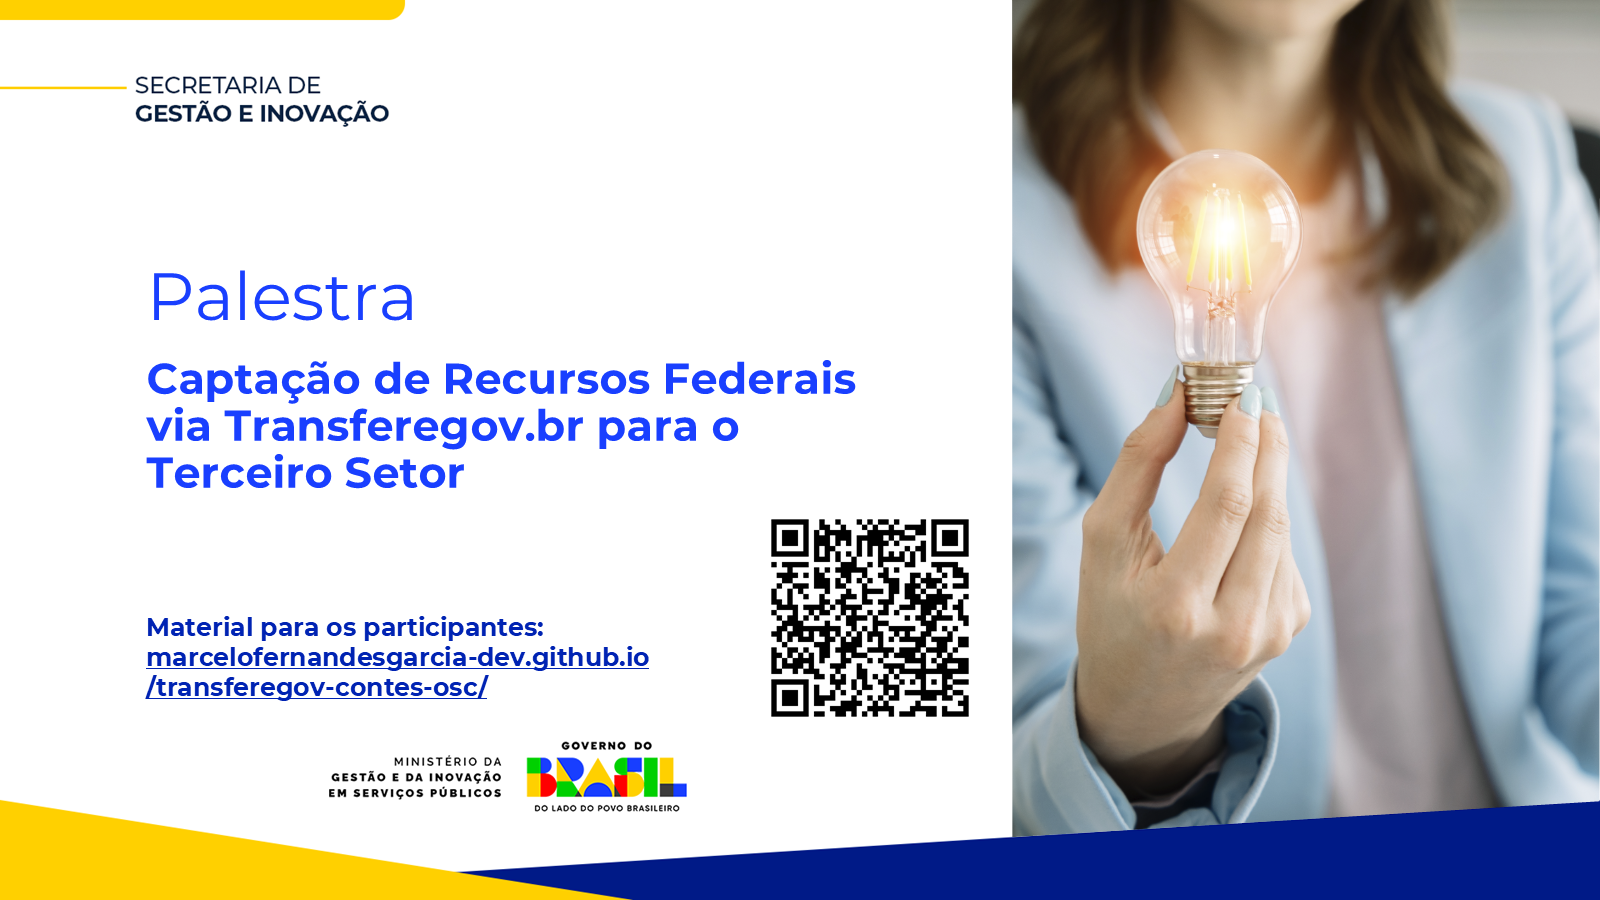
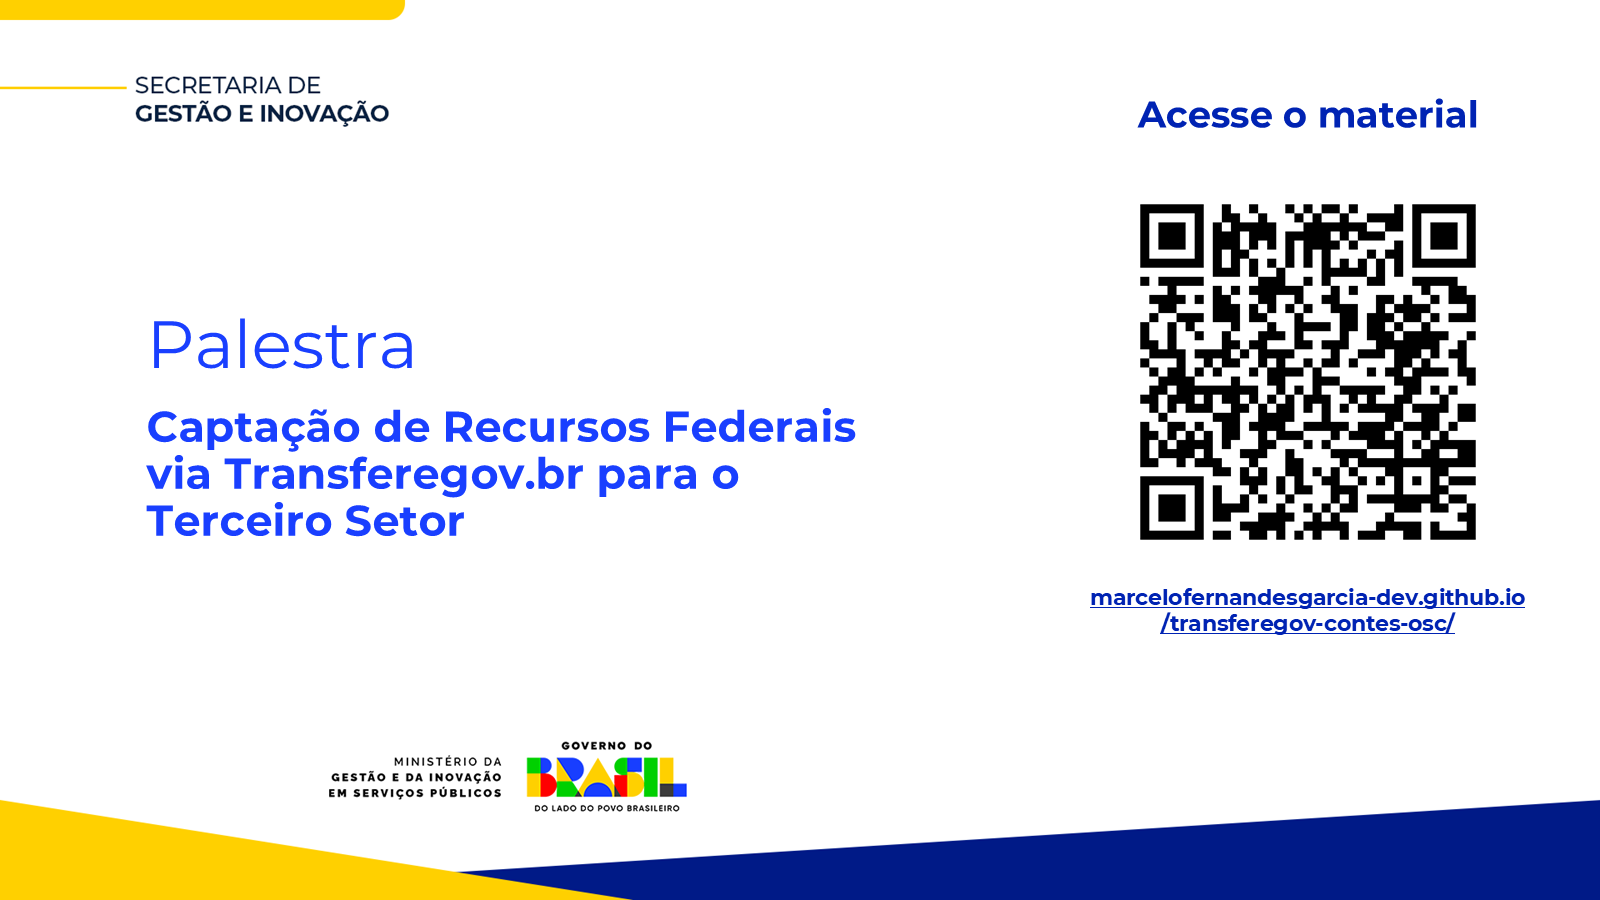
Atualiza as capas: sem foto, com QR code ampliado
Montado da fonte 7afbfcd. Os slides 4 da palestra e 8 do painel mudam só
por diferença de renderização.

diff --git a/docs/slides-painel.html b/docs/slides-painel.html
@@ -41,7 +41,8 @@
           <summary>Texto e links do slide 1</summary>
           <p>Painel</p>
 <p>Transferegov.br e as OSCs: Desafios, Exigências e Estratégias para Acesso a Recursos</p>
-<p>Material para os participantes:<br><a href="https://marcelofernandesgarcia-dev.github.io/transferegov-contes-osc/" target="_blank" rel="noopener">marcelofernandesgarcia-dev.github.io/transferegov-contes-osc/<span class="sr-only"> (abre em nova aba)</span><svg class="icone" aria-hidden="true"><use href="#i-externo"/></svg></a></p>
+<p>Acesse o material</p>
+<p><a href="https://marcelofernandesgarcia-dev.github.io/transferegov-contes-osc/" target="_blank" rel="noopener">marcelofernandesgarcia-dev.github.io/transferegov-contes-osc/<span class="sr-only"> (abre em nova aba)</span><svg class="icone" aria-hidden="true"><use href="#i-externo"/></svg></a></p>
 <p>QR code que leva ao site do material para os participantes (o mesmo endereço do link acima).</p>
         </details>
       </li>

diff --git a/docs/slides-palestra.html b/docs/slides-palestra.html
@@ -41,7 +41,8 @@
           <summary>Texto e links do slide 1</summary>
           <p>Palestra</p>
 <p>Captação de Recursos Federais via Transferegov.br para o Terceiro Setor</p>
-<p>Material para os participantes:<br><a href="https://marcelofernandesgarcia-dev.github.io/transferegov-contes-osc/" target="_blank" rel="noopener">marcelofernandesgarcia-dev.github.io/transferegov-contes-osc/<span class="sr-only"> (abre em nova aba)</span><svg class="icone" aria-hidden="true"><use href="#i-externo"/></svg></a></p>
+<p>Acesse o material</p>
+<p><a href="https://marcelofernandesgarcia-dev.github.io/transferegov-contes-osc/" target="_blank" rel="noopener">marcelofernandesgarcia-dev.github.io/transferegov-contes-osc/<span class="sr-only"> (abre em nova aba)</span><svg class="icone" aria-hidden="true"><use href="#i-externo"/></svg></a></p>
 <p>QR code que leva ao site do material para os participantes (o mesmo endereço do link acima).</p>
         </details>
       </li>
